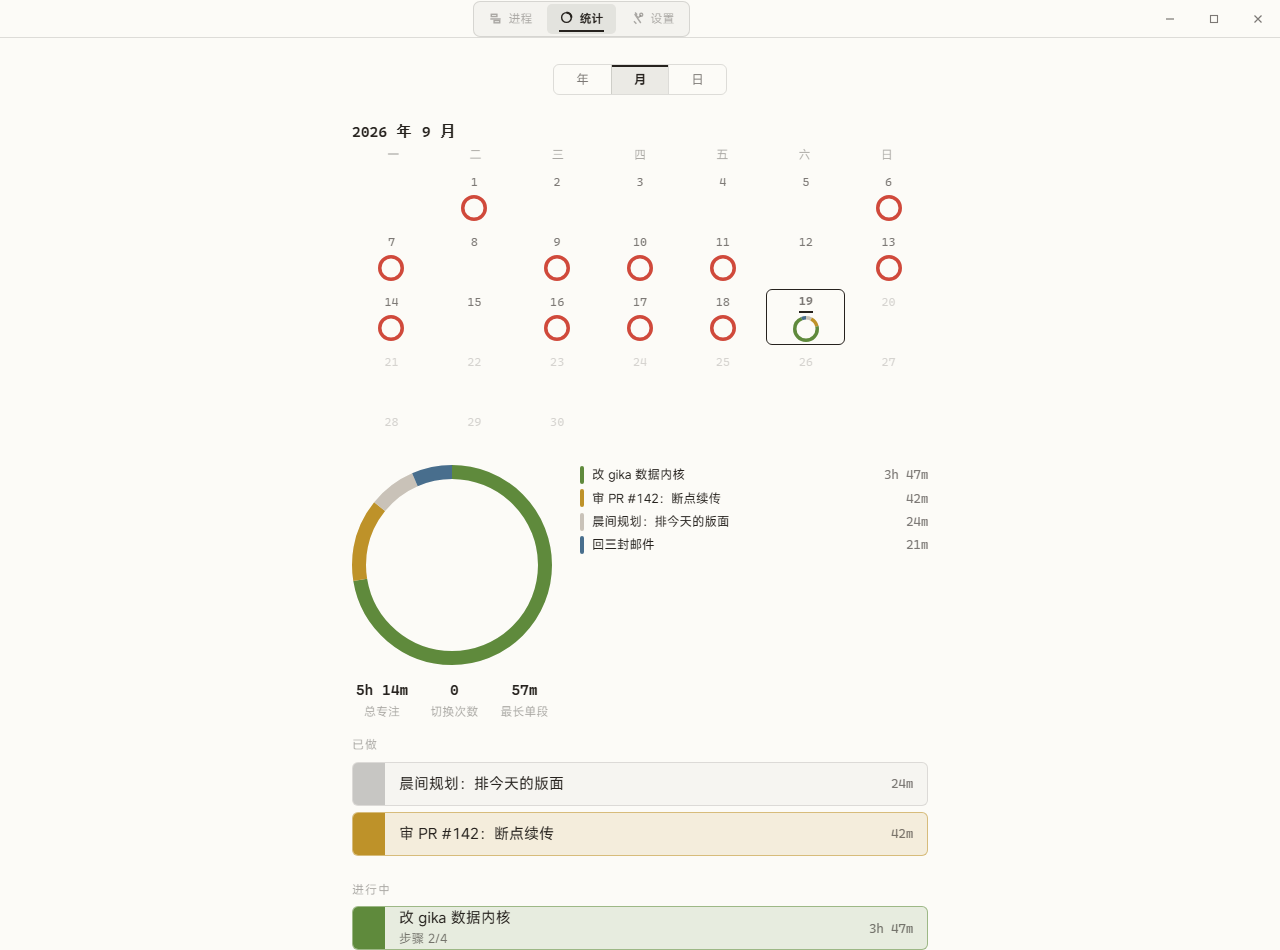
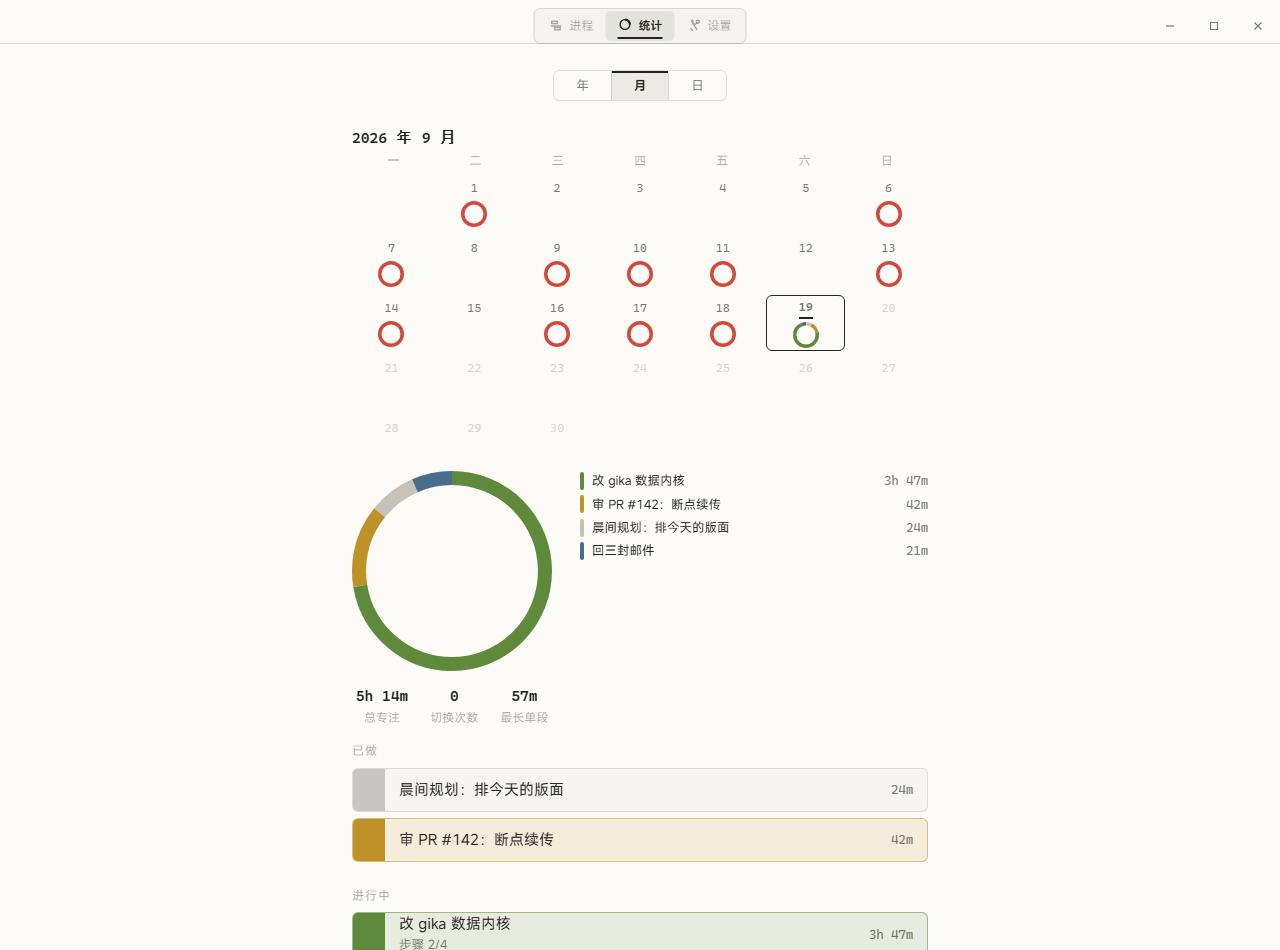
打磨：胶囊几何居中 + rail 常驻细条存在感

diff --git a/src/styles/app.css b/src/styles/app.css
@@ -8,6 +8,7 @@
   display: flex;
   align-items: center;
   padding: 8px 0 0 14px; /* 顶部 8px 让出无边框窗 resize 死带（tao HTTOP） */
+  position: relative; /* 胶囊几何居中的定位上下文 */
   border-bottom: 1px solid var(--hairline);
   flex: none;
   position: relative;
@@ -1392,6 +1393,10 @@ body:has(.overlay-card) {
 
 /* ================= v1.1 · 胶囊导航 ================= */
 .capsule-nav {
+  position: absolute;
+  left: 50%;
+  transform: translateX(-50%); /* 相对窗口几何中心，不再受窗控挤压 */
+  z-index: 2; /* 压过两侧拖拽留白；自身可点 */
   display: flex;
   align-items: center;
   gap: 0; /* 缝隙死区清零：间距由导航项自身 padding 撑开 */
@@ -1455,10 +1460,12 @@ body:has(.overlay-card) {
   place-items: center;
   color: var(--ink-ghost);
   cursor: pointer;
+  background: color-mix(in srgb, var(--ink) 2.5%, transparent); /* 收起态常驻存在感 */
+  border-right: 1px solid color-mix(in srgb, var(--ink) 9%, transparent); /* 发丝线 */
   transition: background var(--dur-fast), color var(--dur-fast);
 }
 .lib-rail:hover {
-  background: color-mix(in srgb, var(--ink) 4%, transparent);
+  background: color-mix(in srgb, var(--ink) 7%, transparent);
   color: var(--ink-soft);
 }
 .lib-rail svg { width: 10px; height: 14px; }
